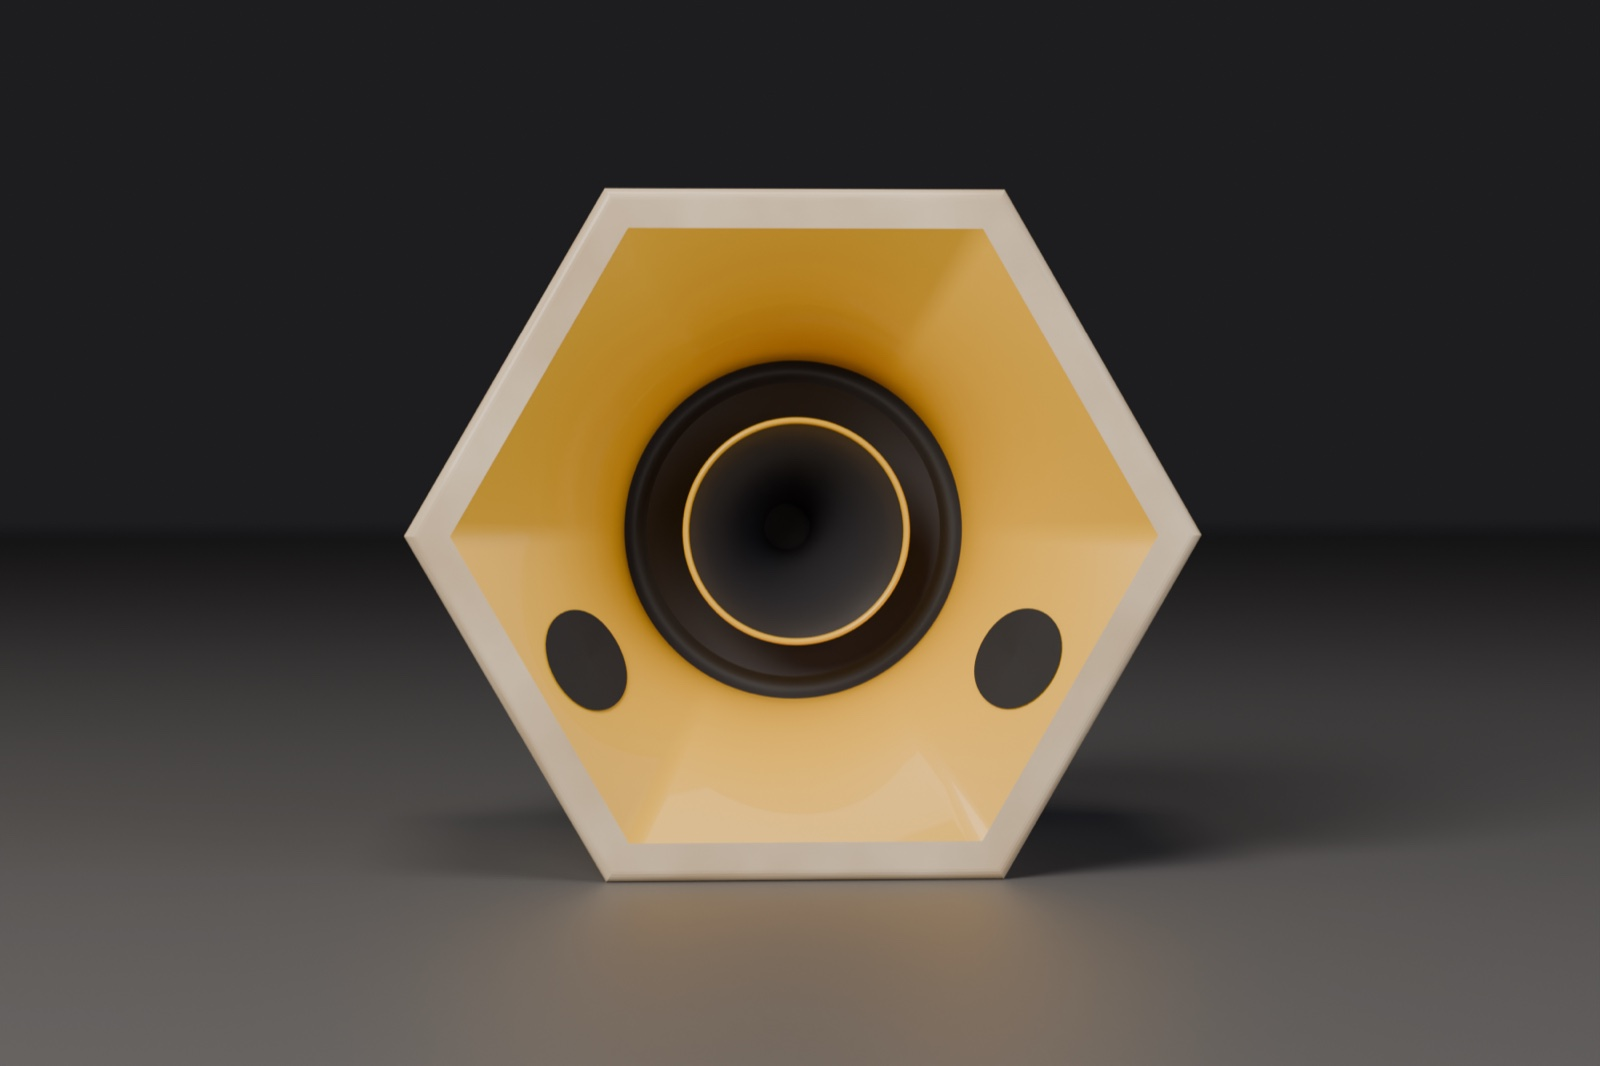
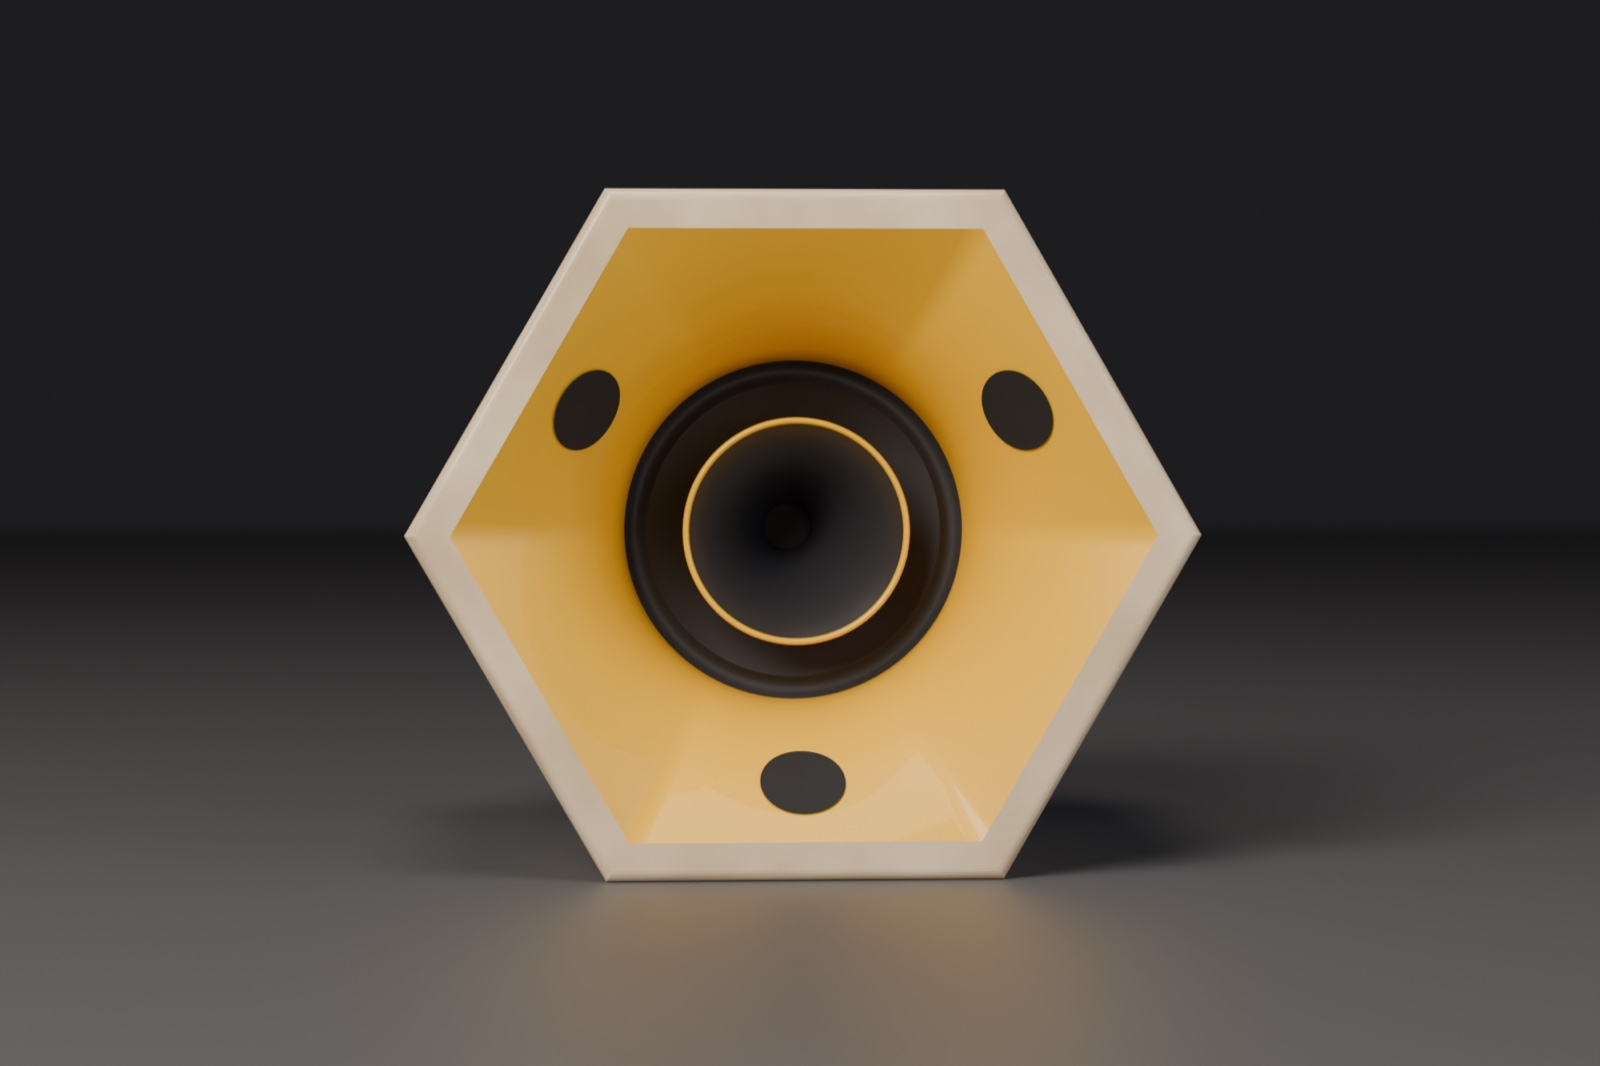
Hex 8: 300 mm deep, three round ports in the horn

diff --git a/docs/range.html b/docs/range.html
@@ -45,16 +45,16 @@ rear chamber.</p>
 </div>
 
 <h2 id="hex">Hex 8: a small two-way for single use (concept)</h2>
-<p>For a cafe or bar that wants one striking box per side, not an array: a 350 mm hexagonal cabinet, 260 mm deep, with
+<p>For a cafe or bar that wants one striking box per side, not an array: a 350 mm hexagonal cabinet, 300 mm deep, with
 an 8 inch coaxial driver. The compression driver fires through the centre of the woofer and the cone is its horn, so the
 two share one source and one coverage pattern. It is a hybrid: a short hexagonal horn on the front of the cone, and the
-14 litre rear chamber radiating into that horn through two round ports in its lower walls near the mouth, as in a
-multiple-entry horn.</p>
-<div class="table-wrap"><table><thead><tr><th class=""></th><th class="">Hex 8 (simulated low end)</th></tr></thead><tbody><tr><td class="">Driver</td><td class="">Faital 8HX150 coaxial, about $282</td></tr><tr><td class="">Low end, on a wall</td><td class="">-6 dB at 60 Hz, with a few dB of bass EQ below about 100 Hz (49 Hz if the box is 350 mm deep)</td></tr><tr><td class="">Sensitivity and level</td><td class="">95 dB at 2.83 V; about 113 dB before the cone reaches its excursion limit</td></tr><tr><td class="">HF</td><td class="">Takes over from 1.7 kHz (maker's figure)</td></tr><tr><td class="">Size</td><td class="">350 mm across the flats, 260 mm deep; two 54 mm ports</td></tr></tbody></table></div>
+18 litre rear chamber radiating into that horn through three round ports, one in every other wall near the mouth,
+as in a multiple-entry horn. The ports are printed and bend inside the box to reach their length.</p>
+<div class="table-wrap"><table><thead><tr><th class=""></th><th class="">Hex 8 (simulated low end)</th></tr></thead><tbody><tr><td class="">Driver</td><td class="">Faital 8HX150 coaxial, about $282</td></tr><tr><td class="">Low end, on a wall</td><td class="">-6 dB at 54 Hz, with a few dB of bass EQ below about 100 Hz</td></tr><tr><td class="">Sensitivity and level</td><td class="">95 dB at 2.83 V; about 113 dB before the cone reaches its excursion limit</td></tr><tr><td class="">HF</td><td class="">Takes over from 1.7 kHz (maker's figure)</td></tr><tr><td class="">Size</td><td class="">350 mm across the flats, 300 mm deep; three 44 mm ports, each about 230 mm long</td></tr></tbody></table></div>
 <div class="grid2">
 <figure class="figure"><img class="render" src="img/range/concepts/hex8-single.jpg" alt="Hex 8: the HF horn stands in the centre of the cone, inside the hexagonal front horn." loading="lazy"><figcaption>Hex 8: the HF horn stands in the centre of the cone, inside the hexagonal front horn.</figcaption></figure>
 <figure class="figure"><img class="render" src="img/range/concepts/hex8-front.jpg" alt="From the front." loading="lazy"><figcaption>From the front.</figcaption></figure>
-<figure class="figure"><img class="render" src="img/range/concepts/hex8-cafe.jpg" alt="On a wall. The two dark openings in the horn are the rear chamber's ports." loading="lazy"><figcaption>On a wall. The two dark openings in the horn are the rear chamber's ports.</figcaption></figure>
+<figure class="figure"><img class="render" src="img/range/concepts/hex8-cafe.jpg" alt="On a wall. The three dark openings in the horn are the rear chamber's ports." loading="lazy"><figcaption>On a wall. The three dark openings in the horn are the rear chamber's ports.</figcaption></figure>
 </div>
 <div class="note"><p><b>Concept.</b> The low end is simulated (a ported-box model with the driver's datasheet
 parameters). The front horn, the crossover and the top end are not: those figures are the maker's. An alternative

diff --git a/src/sunflower/site.py b/src/sunflower/site.py
@@ -552,21 +552,21 @@ rear chamber.</p>
 {"".join(blocks)}
 
 <h2 id="hex">Hex 8: a small two-way for single use (concept)</h2>
-<p>For a cafe or bar that wants one striking box per side, not an array: a 350 mm hexagonal cabinet, 260 mm deep, with
+<p>For a cafe or bar that wants one striking box per side, not an array: a 350 mm hexagonal cabinet, 300 mm deep, with
 an 8 inch coaxial driver. The compression driver fires through the centre of the woofer and the cone is its horn, so the
 two share one source and one coverage pattern. It is a hybrid: a short hexagonal horn on the front of the cone, and the
-14 litre rear chamber radiating into that horn through two round ports in its lower walls near the mouth, as in a
-multiple-entry horn.</p>
+18 litre rear chamber radiating into that horn through three round ports, one in every other wall near the mouth,
+as in a multiple-entry horn. The ports are printed and bend inside the box to reach their length.</p>
 {table(["", "Hex 8 (simulated low end)"], [
     ["Driver", "Faital 8HX150 coaxial, about $282"],
-    ["Low end, on a wall", "-6 dB at 60 Hz, with a few dB of bass EQ below about 100 Hz (49 Hz if the box is 350 mm deep)"],
+    ["Low end, on a wall", "-6 dB at 54 Hz, with a few dB of bass EQ below about 100 Hz"],
     ["Sensitivity and level", "95 dB at 2.83 V; about 113 dB before the cone reaches its excursion limit"],
     ["HF", "Takes over from 1.7 kHz (maker's figure)"],
-    ["Size", "350 mm across the flats, 260 mm deep; two 54 mm ports"]])}
+    ["Size", "350 mm across the flats, 300 mm deep; three 44 mm ports, each about 230 mm long"]])}
 <div class="grid2">
 {fig("img/range/concepts/hex8-single.jpg", "Hex 8: the HF horn stands in the centre of the cone, inside the hexagonal front horn.", "render")}
 {fig("img/range/concepts/hex8-front.jpg", "From the front.", "render")}
-{fig("img/range/concepts/hex8-cafe.jpg", "On a wall. The two dark openings in the horn are the rear chamber's ports.", "render")}
+{fig("img/range/concepts/hex8-cafe.jpg", "On a wall. The three dark openings in the horn are the rear chamber's ports.", "render")}
 </div>
 <div class="note"><p><b>Concept.</b> The low end is simulated (a ported-box model with the driver's datasheet
 parameters). The front horn, the crossover and the top end are not: those figures are the maker's. An alternative
